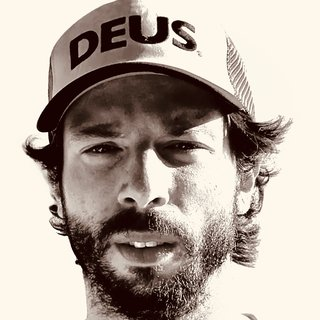
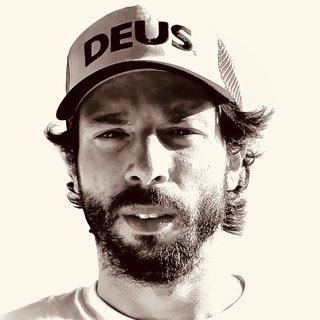
Active filter as an outlined pill, full search hint on phones, photo with more room
Claude-Session: https://claude.ai/code/session_01VG9tiVjN4gvRgCQF3FC2oD

diff --git a/assets/app.css b/assets/app.css
@@ -638,3 +638,13 @@ td .tag { font: 400 13px/1.4 var(--body); color: var(--ink-2); }
 /* the round "back to top" button sits at the bottom right: keep the footer clear of it */
 @media (min-width: 601px) { footer .wrap { padding-right: 56px; } }
 @media (max-width: 600px) { footer .wrap { padding-bottom: 64px; } }
+/* the active filter (artist, venue…) as an outlined pill like the festival line-ups, not a coral bubble */
+.chip { background: none; border-color: var(--line-2); gap: 10px; padding-left: 14px; }
+.chip-label { font: 500 11px/1 var(--body); letter-spacing: .14em; color: var(--muted); }
+.chip strong { font-weight: 500; color: var(--text); }
+.chip button:hover { background: none; color: var(--accent); }
+@media (max-width: 600px) {
+  /* the field stays at 16px (no zoom on iPhone); only the hint is smaller, so "city" fits next to the filters button */
+  .sbar .search input[type=search] { padding-right: 76px; }
+  input[type=search]::placeholder { font-size: 14px; }
+}
